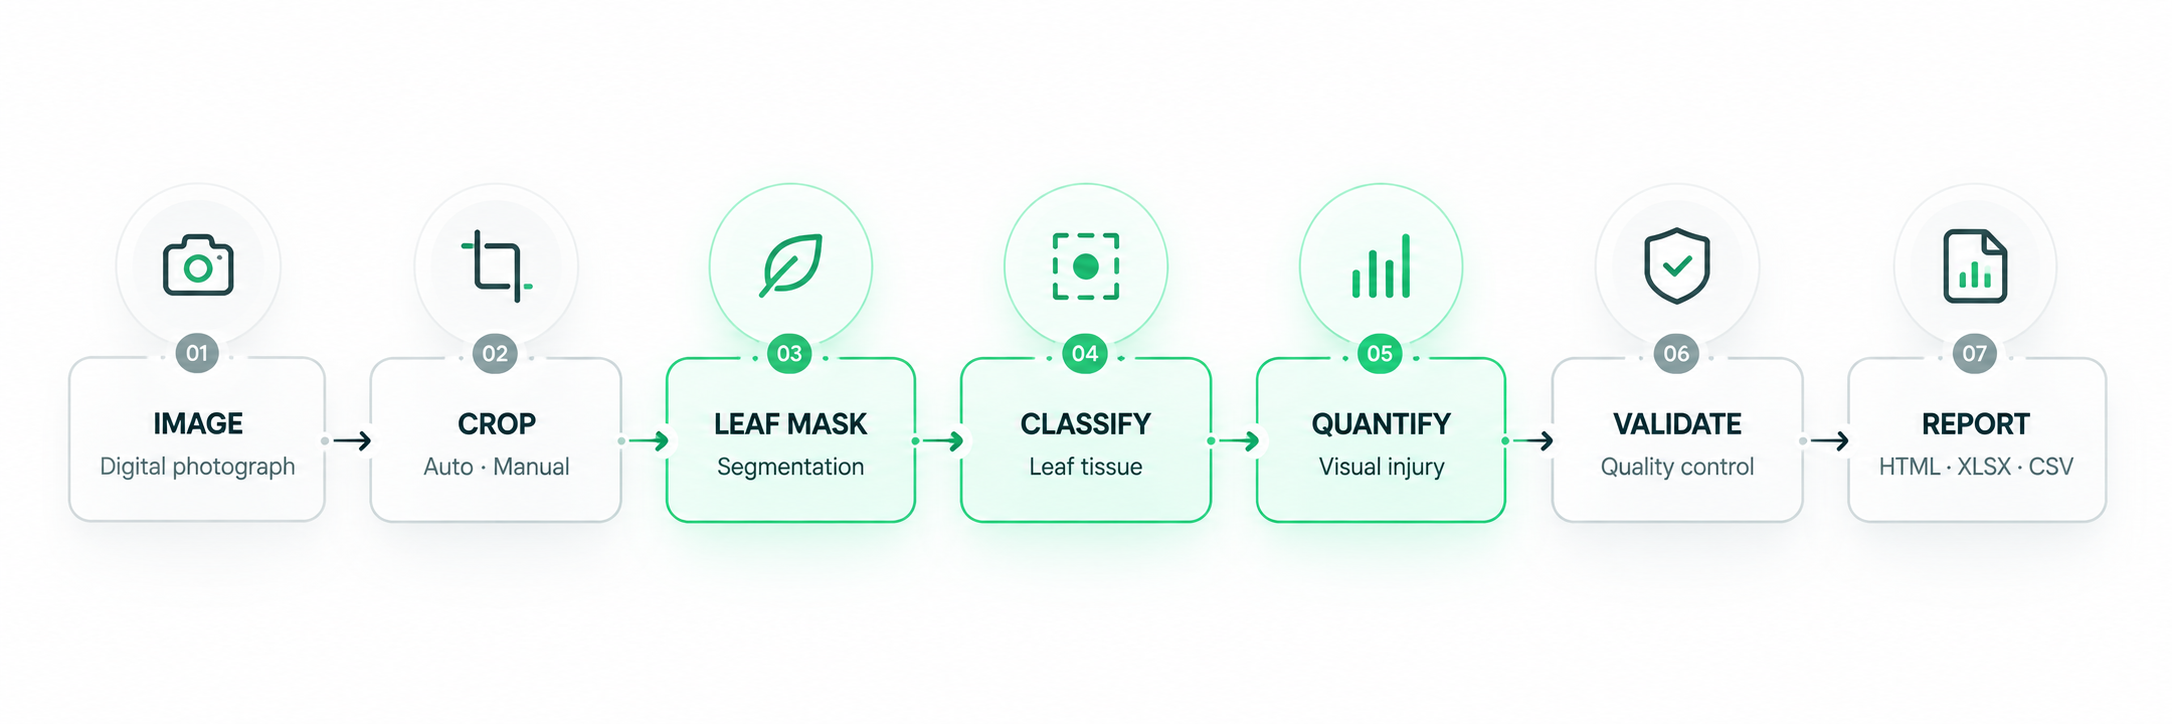
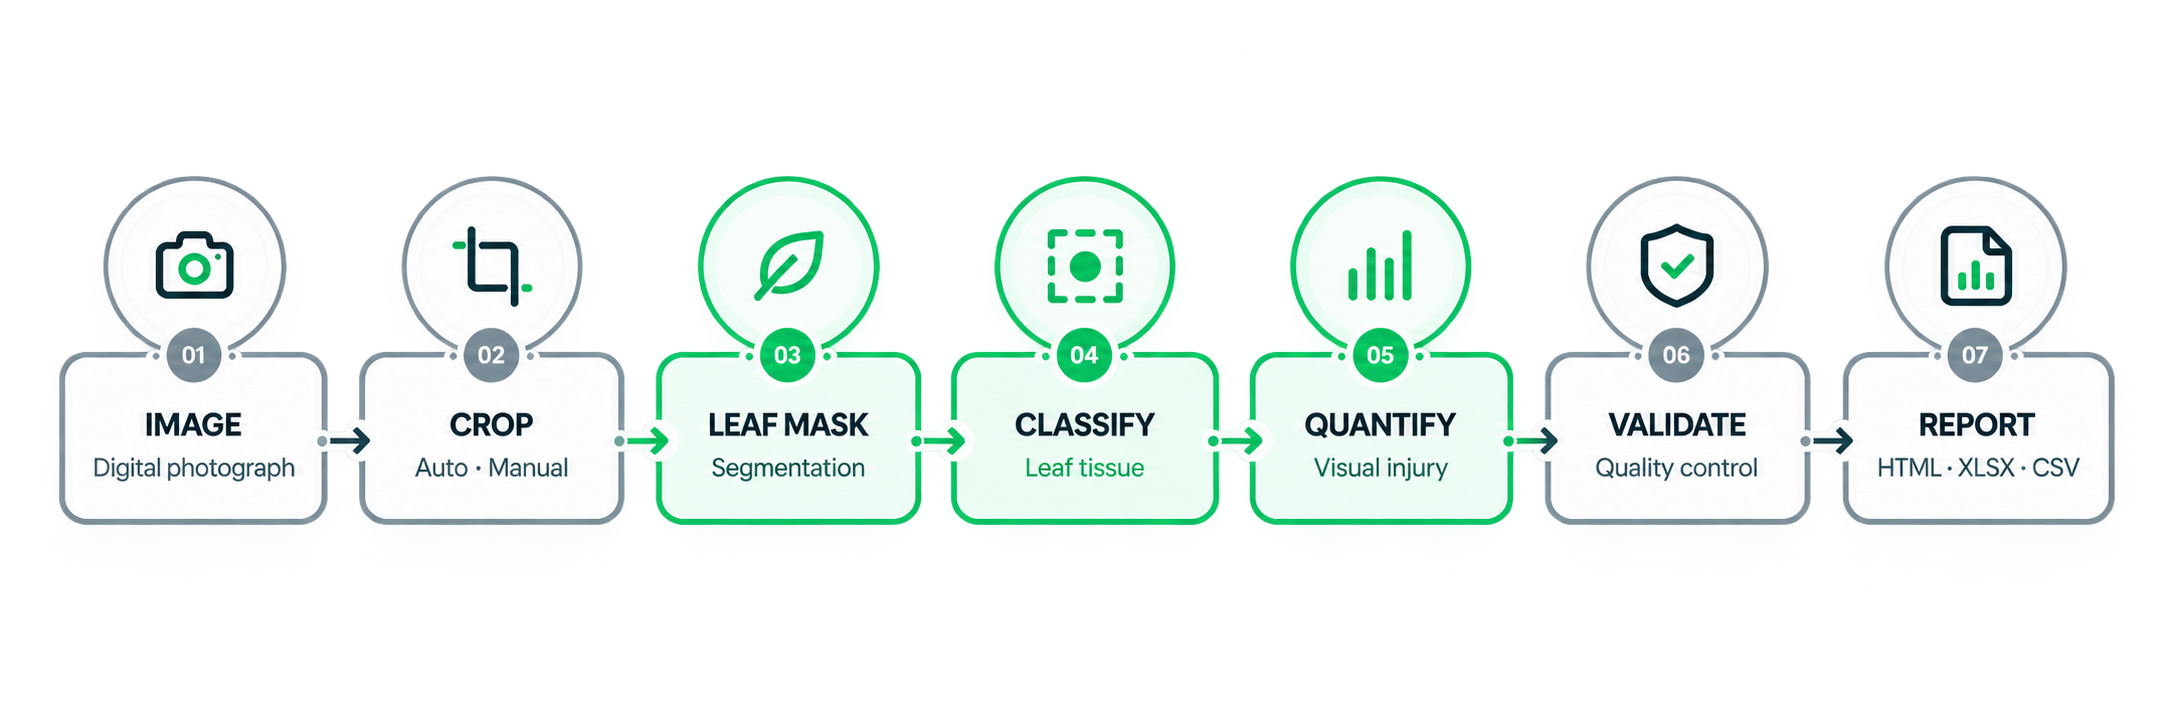
Update website layout and workflow image

diff --git a/index.md b/index.md
@@ -8,17 +8,22 @@ title: LeafInjuryR
 window.MathJax = {
   tex: {
     inlineMath: [['\\(', '\\)']],
-    displayMath: [['$$', '$$'], ['\\[', '\\]']]
+    displayMath: [['$$', '$$'], ['\\[', '\\]']],
+    processEscapes: true
   },
   svg: {
     fontCache: 'global'
   }
 };
 </script>
-<script defer src="https://cdn.jsdelivr.net/npm/mathjax@3/es5/tex-svg.js"></script>
 
-{% capture readme %}
-{% include_relative README.md %}
-{% endcapture %}
+<script defer
+  src="https://cdn.jsdelivr.net/npm/mathjax@3/es5/tex-svg.js">
+</script>
 
+<div class="leafinjuryr-content" markdown="1">
+
+{% capture readme %}{% include_relative README.md %}{% endcapture %}
 {{ readme | markdownify }}
+
+</div>
